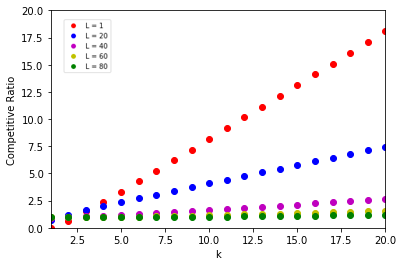
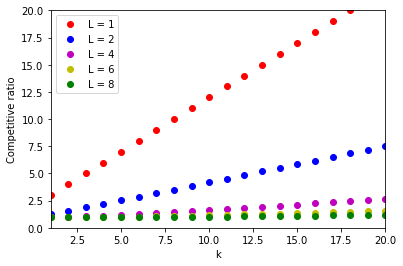
added code for plotting curves

diff --git a/Plot_curves/courberandom.py b/Plot_curves/courberandom.py
@@ -1,0 +1,112 @@
+#!/usr/bin/env python2
+# -*- coding: utf-8 -*-
+"""
+Created on Mon Feb 19 10:26:37 2018
+
+@author: jeandesmarchelier
+"""
+
+from numpy import *
+from matplotlib.pyplot import *
+from mpl_toolkits.mplot3d import Axes3D
+
+
+k = 1
+ax = subplot(111)
+ax.set_xlim(1,10)
+L = linspace(1,100,100)
+Z = linspace(0,0,100)
+for i in range(1,101):
+    for j in range(1,k+2):
+        Z[i-1] += ((pow(k-j+2,L[i-1])-pow(k-j+1,L[i-1]))/pow(k+1,L[i-1]))*(((2*j-1)/L[i-1])+1)
+k1, = plot(L,Z,'ro', label = 'L = 1')
+
+k = 20
+L = linspace(1,100,100)
+Z = linspace(0,0,100)
+for i in range(1,101):
+    for j in range(1,k+2):
+        Z[i-1] += ((pow(k-j+2,L[i-1])-pow(k-j+1,L[i-1]))/pow(k+1,L[i-1]))*(((2*j-1)/L[i-1])+1)
+k20, = plot(L,Z,'bo', label = 'L = 20')
+
+k = 80
+
+L = linspace(1,100,100)
+Z = linspace(0,0,100)
+for i in range(1,101):
+    for j in range(1,k+2):
+        Z[i-1] += ((pow(k-j+2,L[i-1])-pow(k-j+1,L[i-1]))/pow(k+1,L[i-1]))*(((2*j-1)/L[i-1])+1)
+k80, = plot(L,Z,'go', label = 'L = 80')
+
+k = 40
+
+L = linspace(1,100,100)
+Z = linspace(0,0,100)
+for i in range(1,101):
+    for j in range(1,k+2):
+        Z[i-1] += ((pow(k-j+2,L[i-1])-pow(k-j+1,L[i-1]))/pow(k+1,L[i-1]))*(((2*j-1)/L[i-1])+1)
+k40, = plot(L,Z,'mo', label = 'L = 40')
+
+
+k = 60
+
+L = linspace(1,100,100)
+Z = linspace(0,0,100)
+for i in range(1,101):
+    for j in range(1,k+2):
+        Z[i-1] += ((pow(k-j+2,L[i-1])-pow(k-j+1,L[i-1]))/pow(k+1,L[i-1]))*(((2*j-1)/L[i-1])+1)
+k60, = plot(L,Z,'yo', label = 'L = 60')
+xlabel('l')
+ylabel('Competitive ratio')
+legend(handles = [k1, k20, k40, k60, k80])
+show()
+
+l = 1
+K = linspace(1,100,100)
+Z = linspace(0,0,100)
+for i in range(1,101):
+    for j in range(1,int(K[i-1]+2)):
+        Z[i-1] += ((pow(K[i-1]-j+2,l)-pow(K[i-1]-j+1,l))/pow(K[i-1]+1,l))*(((2*j-1)/l)+1)
+l1, = plot(K,Z,'ro', label = 'L = 1')
+
+
+l = 2
+K = linspace(1,100,100)
+Z = linspace(0,0,100)
+for i in range(1,101):
+    for j in range(1,int(K[i-1]+2)):
+        Z[i-1] += ((pow(K[i-1]-j+2,l)-pow(K[i-1]-j+1,l))/pow(K[i-1]+1,l))*(((2*j-1)/l)+1)
+l20, = plot(K,Z,'bo', label = 'L = 2')
+
+l = 4
+K = linspace(1,100,100)
+Z = linspace(0,0,100)
+for i in range(1,101):
+    for j in range(1,int(K[i-1]+2)):
+        Z[i-1] += ((pow(K[i-1]-j+2,l)-pow(K[i-1]-j+1,l))/pow(K[i-1]+1,l))*(((2*j-1)/l)+1)
+l40, = plot(K,Z,'mo', label = 'L = 4')
+
+l = 6
+K = linspace(1,100,100)
+Z = linspace(0,0,100)
+for i in range(1,101):
+    for j in range(1,int(K[i-1]+2)):
+        Z[i-1] += ((pow(K[i-1]-j+2,l)-pow(K[i-1]-j+1,l))/pow(K[i-1]+1,l))*(((2*j-1)/l)+1)
+l60, = plot(K,Z,'yo', label = 'L = 6')
+
+l = 8
+K = linspace(1,100,100)
+Z = linspace(0,0,100)
+for i in range(1,101):
+    for j in range(1,int(K[i-1]+2)):
+        Z[i-1] += ((pow(K[i-1]-j+2,l)-pow(K[i-1]-j+1,l))/pow(K[i-1]+1,l))*(((2*j-1)/l)+1)
+l80, = plot(K,Z,'go', label = 'L = 8')
+legend(handles = [l1, l20, l40, l60, l80])
+
+ax = subplot(111)
+ax.set_xlim(1,20)
+ax.set_ylim(0,20)
+xlabel('k')
+ylabel('Competitive ratio')
+
+show()

diff --git a/Plot_curves/courbephi.py b/Plot_curves/courbephi.py
@@ -1,0 +1,49 @@
+#!/usr/bin/env python2
+# -*- coding: utf-8 -*-
+"""
+Created on Mon Feb 19 10:26:37 2018
+
+@author: jeandesmarchelier
+"""
+
+from numpy import *
+from matplotlib.pyplot import *
+from mpl_toolkits.mplot3d import Axes3D
+
+
+
+ 
+    
+
+l = 20
+K=linspace(0,l,20)
+ax = subplot(111)
+ax.set_xlim(1,30)
+Z = l*(2*K + 1) - floor((l-1)/(K+1))*(K+1)*K-((l-1)%(K+1))*((l-1)%(K+1)+1)
+l20, = plot(K,Z,'ro',label = 'L = 20')
+xlabel('k')
+ylabel('Total Distance')
+l = 30
+K=linspace(0,l,30)
+Z = l*(2*K + 1) - floor((l-1)/(K+1))*(K+1)*K-((l-1)%(K+1))*((l-1)%(K+1)+1)
+l30, = plot(K,Z,'go', label = 'L = 30')
+xlabel('k')
+ylabel('Total Distance')
+legend(handles = [l20, l30])
+show()
+    
+
+k = 20
+L=linspace(k,100,40)
+ax = subplot(111)
+ax.set_xlim(21,100)
+Z = L*(2*k + 1) - floor((L-1)/(k+1))*(k+1)*k-((L-1)%(k+1))*((L-1)%(k+1)+1)
+k20, = plot(L,Z,'ro',label = 'K = 20')
+k = 30
+L=linspace(k,100,35)
+Z = L*(2*k + 1) - floor((L-1)/(k+1))*(k+1)*k-((L-1)%(k+1))*((L-1)%(k+1)+1)
+k30, = plot(L,Z,'go', label = 'K = 30')
+xlabel('l')
+ylabel('Total Distance')
+legend(handles = [k20, k30])
+show()
